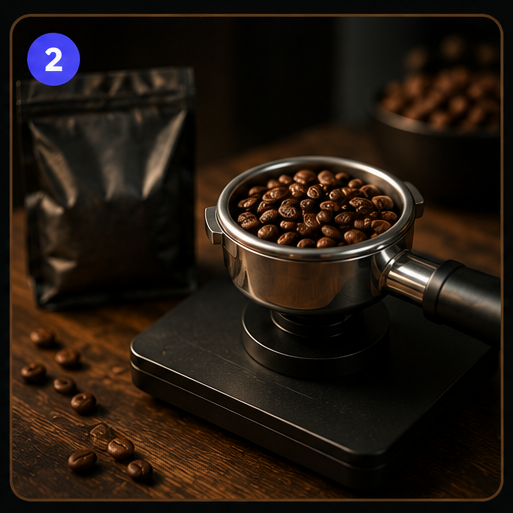
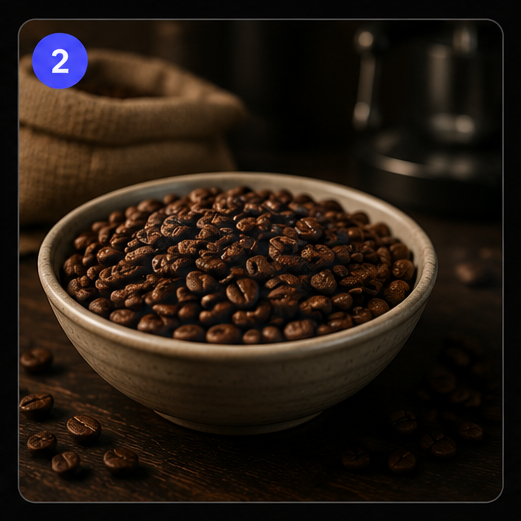
feat: add interactive Module 2 page with daily scenario simulations

diff --git a/app/course/module-2/page.js b/app/course/module-2/page.js
@@ -251,9 +251,9 @@ export default function Module2() {
                         <div style={{ display: 'flex', gap: '40px', marginBottom: '30px' }}>
                             {/* Left: Image Viewer */}
                             <div style={{ flex: '1.4', display: 'flex', flexDirection: 'column', gap: '20px' }}>
-                                {/* Image Container (No padding, rounded corners clip the sharp image edges) */}
-                                <div style={{ flex: 1, position: 'relative', borderRadius: '20px', overflow: 'hidden', border: '1px solid rgba(255,255,255,0.1)', background: '#0f172a', minHeight: '400px' }}>
-                                    <img key={activeData.steps[currentStep-1].image} src={activeData.steps[currentStep-1].image} alt={activeData.steps[currentStep-1].title} style={{ position: 'absolute', top: 0, left: 0, width: '100%', height: '100%', objectFit: 'cover', animation: 'fadeIn 0.5s ease' }} />
+                                {/* Image Container (Height determined naturally by image to prevent cropping) */}
+                                <div style={{ width: '100%', borderRadius: '20px', overflow: 'hidden', border: '1px solid rgba(255,255,255,0.1)', background: '#0f172a', display: 'flex' }}>
+                                    <img key={activeData.steps[currentStep-1].image} src={activeData.steps[currentStep-1].image} alt={activeData.steps[currentStep-1].title} style={{ display: 'block', width: '100%', height: 'auto', objectFit: 'contain', animation: 'fadeIn 0.5s ease' }} />
                                 </div>
 
                                 {/* Controls Container (Now completely separate, no longer overlapping the photo) */}
